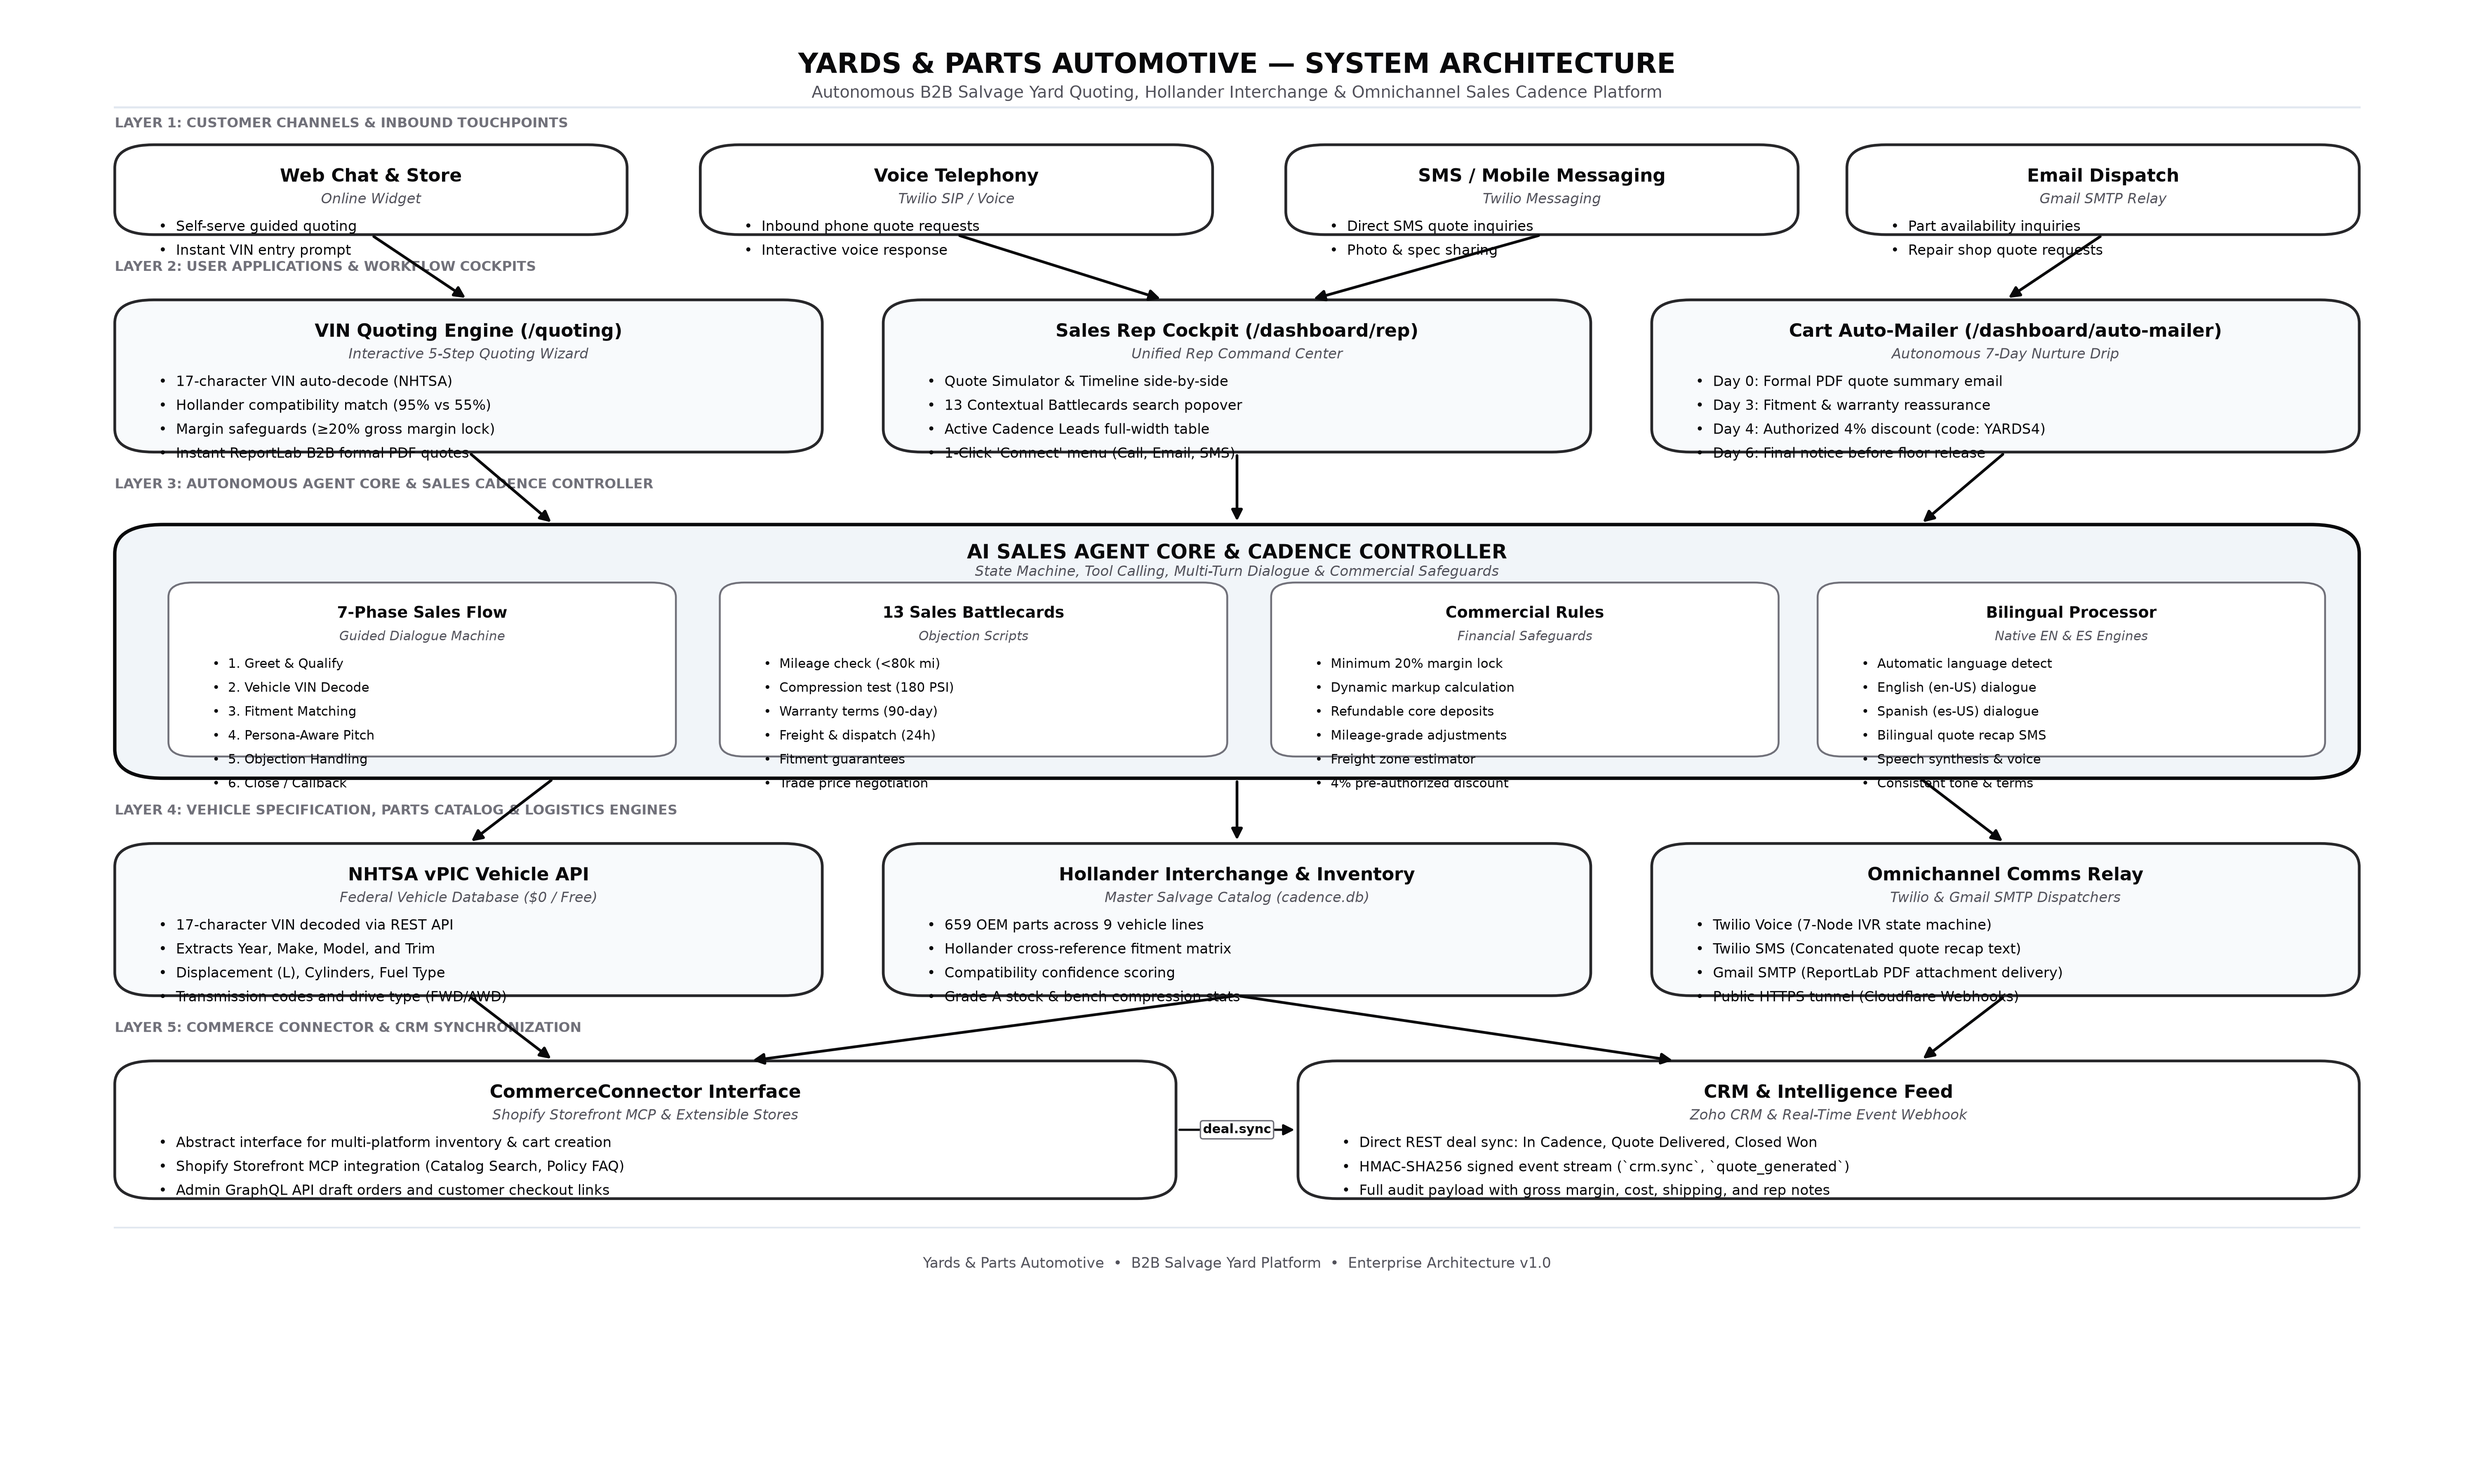
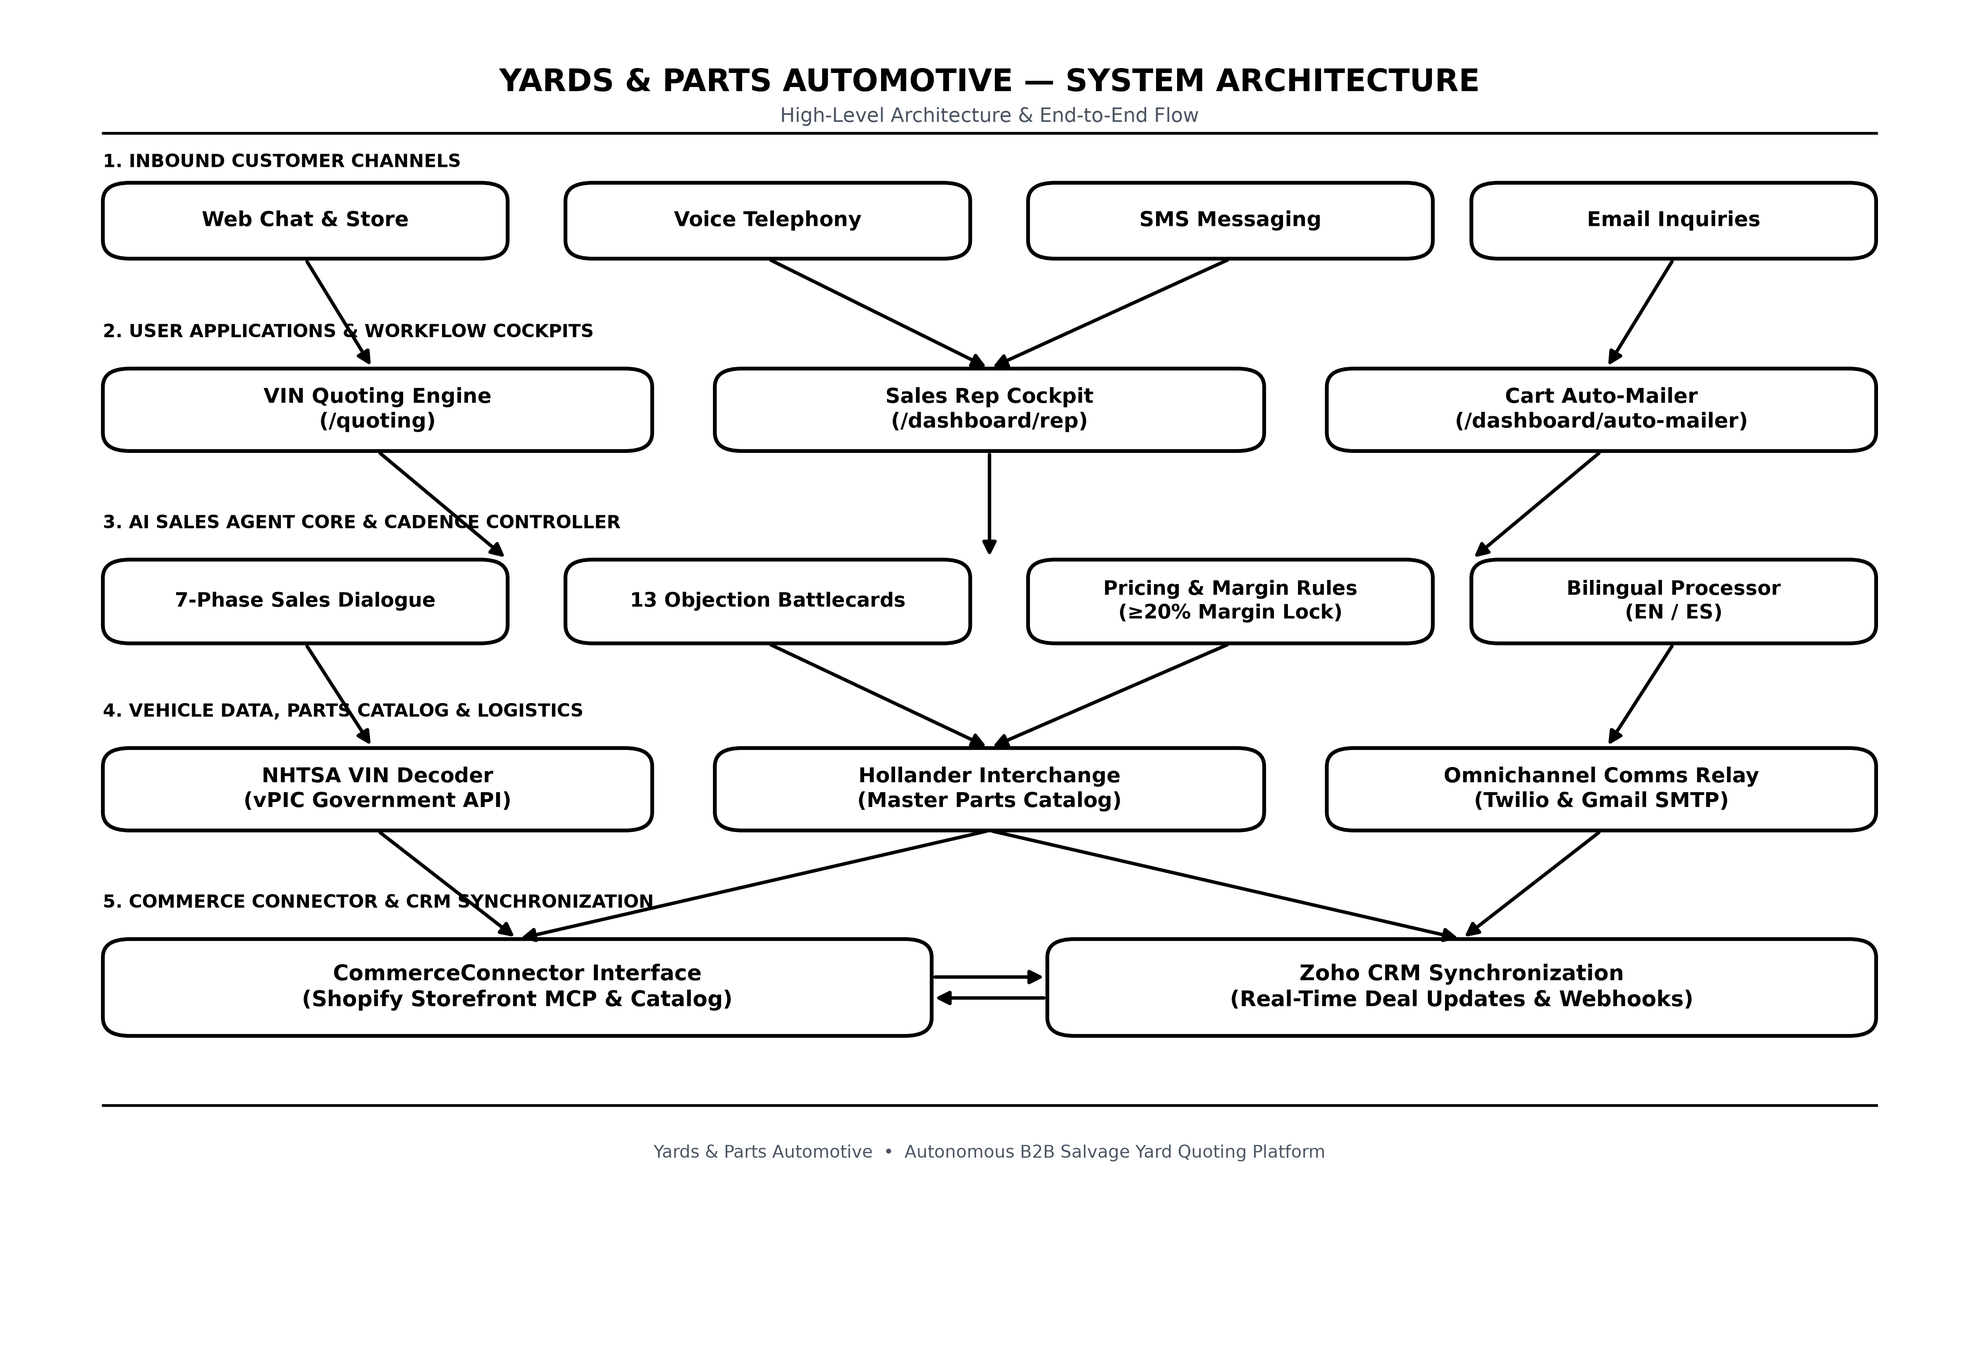
feat(comms): dynamically resolve Twilio credentials from env and update simple architecture diagram

diff --git a/generate_simple_diagram.py b/generate_simple_diagram.py
@@ -1,0 +1,175 @@
+import os
+import matplotlib
+matplotlib.use('Agg')
+import matplotlib.pyplot as plt
+import matplotlib.patches as patches
+
+def draw_simple_diagram():
+    # 16:10 wide canvas, 300 DPI for high-resolution clarity
+    fig, ax = plt.subplots(figsize=(16, 11), dpi=300)
+    fig.patch.set_facecolor('#FFFFFF')
+    ax.set_facecolor('#FFFFFF')
+    ax.set_xlim(0, 100)
+    ax.set_ylim(0, 100)
+    ax.axis('off')
+
+    # Minimalist Black & White palette
+    COLOR_BLACK = '#09090B'
+    COLOR_CARD = '#FFFFFF'
+    COLOR_CONTAINER = '#F8FAFC'
+    COLOR_MUTED = '#52525B'
+    COLOR_LINE = '#09090B'
+
+    def draw_box(x, y, w, h, text, bg=COLOR_CARD, border=COLOR_BLACK, lw=2.0, r=1.4, fontsize=12):
+        box = patches.FancyBboxPatch(
+            (x, y), w, h,
+            boxstyle=f"round,pad=0,rounding_size={r}",
+            facecolor=bg,
+            edgecolor=border,
+            linewidth=lw,
+            zorder=3
+        )
+        ax.add_patch(box)
+        # Headline only - clean, bold, centered
+        ax.text(x + w / 2, y + h / 2, text, ha='center', va='center',
+                fontsize=fontsize, fontweight='bold', color=COLOR_BLACK, zorder=4)
+        return (x + w / 2, y + h / 2)
+
+    def draw_arrow(x1, y1, x2, y2, lw=1.8, rad=0):
+        cstyle = f"arc3,rad={rad}" if rad != 0 else "arc3,rad=0"
+        ax.annotate(
+            "",
+            xy=(x2, y2), xycoords='data',
+            xytext=(x1, y1), textcoords='data',
+            arrowprops=dict(
+                arrowstyle="-|>",
+                color=COLOR_LINE,
+                lw=lw,
+                mutation_scale=14,
+                connectionstyle=cstyle
+            ),
+            zorder=5
+        )
+
+    # ── HEADER ─────────────────────────────────────────────────────────────
+    ax.text(50, 96.8, "YARDS & PARTS AUTOMOTIVE — SYSTEM ARCHITECTURE", ha='center', va='top',
+            fontsize=17, fontweight='bold', color=COLOR_BLACK)
+    ax.text(50, 94.0, "High-Level Architecture & End-to-End System Flow", ha='center', va='top',
+            fontsize=10.5, color=COLOR_MUTED)
+    ax.plot([4, 96], [92.0, 92.0], color=COLOR_BLACK, lw=1.4, zorder=1)
+
+    # ── LEFT COLUMN LAYER BADGES (x = 4 to 20) ──────────────────────────────
+    # Placing all labels strictly in the left column guarantees NO arrows ever intersect labels!
+    def draw_layer_badge(y_center, step_num, title, subtitle=""):
+        bw, bh = 15.5, 6.0
+        bx, by = 4.0, y_center - bh / 2
+        # Card outline for layer label
+        card = patches.FancyBboxPatch(
+            (bx, by), bw, bh,
+            boxstyle="round,pad=0,rounding_size=1.0",
+            facecolor=COLOR_CONTAINER,
+            edgecolor=COLOR_BLACK,
+            linewidth=1.2,
+            zorder=2
+        )
+        ax.add_patch(card)
+        ax.text(bx + bw / 2, by + bh - 1.4, f"LAYER {step_num}", ha='center', va='top',
+                fontsize=8.5, fontweight='bold', color=COLOR_MUTED, zorder=3)
+        ax.text(bx + bw / 2, by + bh - 2.8, title, ha='center', va='top',
+                fontsize=10.5, fontweight='bold', color=COLOR_BLACK, zorder=3)
+        if subtitle:
+            ax.text(bx + bw / 2, by + 1.2, subtitle, ha='center', va='bottom',
+                    fontsize=8.0, fontstyle='italic', color=COLOR_MUTED, zorder=3)
+
+    # ── RIGHT AREA: HEADLINE BOXES (x = 22 to 96) ───────────────────────────
+
+    # LAYER 1: CHANNELS (y center = 84.5)
+    draw_layer_badge(84.5, "1", "CHANNELS", "Inbound Leads")
+    l1_y, l1_h, l1_w = 81.5, 6.0, 17.5
+    draw_box(22.0, l1_y, l1_w, l1_h, "Web Chat & Store", fontsize=11.5)
+    draw_box(41.0, l1_y, l1_w, l1_h, "Voice Telephony", fontsize=11.5)
+    draw_box(60.0, l1_y, l1_w, l1_h, "SMS Messaging", fontsize=11.5)
+    draw_box(78.5, l1_y, l1_w, l1_h, "Email Inquiries", fontsize=11.5)
+
+    # Arrows L1 -> L2
+    draw_arrow(30.75, l1_y, 33.5, 73.0)   # Web Chat -> Quoting
+    draw_arrow(49.75, l1_y, 59.0, 73.0)   # Voice -> Rep Cockpit
+    draw_arrow(68.75, l1_y, 59.0, 73.0)   # SMS -> Rep Cockpit
+    draw_arrow(87.25, l1_y, 84.5, 73.0)   # Email -> Auto-Mailer
+
+    # LAYER 2: APPLICATIONS (y center = 69.5)
+    draw_layer_badge(69.5, "2", "APPLICATIONS", "Workflow Cockpits")
+    l2_y, l2_h, l2_w = 66.5, 6.2, 23.5
+    draw_box(22.0, l2_y, l2_w, l2_h, "VIN Quoting Engine\n(/quoting)", fontsize=12)
+    draw_box(47.25, l2_y, l2_w, l2_h, "Sales Rep Cockpit\n(/dashboard/rep)", fontsize=12)
+    draw_box(72.5, l2_y, l2_w, l2_h, "Cart Auto-Mailer\n(/dashboard/auto-mailer)", fontsize=12)
+
+    # Arrows L2 -> L3
+    draw_arrow(33.75, l2_y, 30.75, 58.0)  # Quoting -> Dialogue
+    draw_arrow(59.0,  l2_y, 49.75, 58.0)  # Cockpit -> Battlecards
+    draw_arrow(59.0,  l2_y, 68.75, 58.0)  # Cockpit -> Margin Rules
+    draw_arrow(84.25, l2_y, 87.25, 58.0)  # Auto-Mailer -> Bilingual
+
+    # LAYER 3: AI SALES CORE (y center = 54.5)
+    draw_layer_badge(54.5, "3", "AI AGENT CORE", "Decision & Dialogue")
+    l3_y, l3_h, l3_w = 51.5, 6.2, 17.5
+    draw_box(22.0, l3_y, l3_w, l3_h, "7-Phase Dialogue\nSales Machine", fontsize=11.5)
+    draw_box(41.0, l3_y, l3_w, l3_h, "13 Objection\nBattlecards", fontsize=11.5)
+    draw_box(60.0, l3_y, l3_w, l3_h, "Commercial Rules\n(≥20% Margin Lock)", fontsize=11.5)
+    draw_box(78.5, l3_y, l3_w, l3_h, "Bilingual Engine\n(English & Spanish)", fontsize=11.5)
+
+    # Arrows L3 -> L4
+    draw_arrow(30.75, l3_y, 33.75, 43.0)  # Dialogue -> NHTSA
+    draw_arrow(49.75, l3_y, 59.0, 43.0)   # Battlecards -> Hollander
+    draw_arrow(68.75, l3_y, 59.0, 43.0)   # Rules -> Hollander
+    draw_arrow(87.25, l3_y, 84.25, 43.0)  # Bilingual -> Comms Relay
+
+    # LAYER 4: DATA & LOGISTICS (y center = 39.5)
+    draw_layer_badge(39.5, "4", "DATA & CATALOG", "Fitment & Comms")
+    l4_y, l4_h, l4_w = 36.5, 6.2, 23.5
+    draw_box(22.0, l4_y, l4_w, l4_h, "NHTSA VIN Decoder\n(vPIC Government API)", fontsize=12)
+    draw_box(47.25, l4_y, l4_w, l4_h, "Hollander Interchange\n(Master Parts Catalog)", fontsize=12)
+    draw_box(72.5, l4_y, l4_w, l4_h, "Omnichannel Comms Relay\n(Twilio Voice, SMS & SMTP)", fontsize=12)
+
+    # Arrows L4 -> L5
+    draw_arrow(33.75, l4_y, 40.0, 28.5)   # VIN Decoder -> Shopify
+    draw_arrow(59.0,  l4_y, 40.0, 28.5)   # Hollander -> Shopify
+    draw_arrow(59.0,  l4_y, 78.0, 28.5)   # Hollander -> Zoho CRM
+    draw_arrow(84.25, l4_y, 78.0, 28.5)   # Comms -> Zoho CRM
+
+    # LAYER 5: COMMERCE & CRM (y center = 24.5)
+    draw_layer_badge(24.5, "5", "INTEGRATIONS", "Commerce & CRM")
+    l5_y, l5_h, l5_w = 21.0, 7.0, 35.8
+    draw_box(22.0, l5_y, l5_w, l5_h, "CommerceConnector Interface\n(Shopify Storefront MCP & Catalog)", fontsize=12.5)
+    draw_box(60.2, l5_y, l5_w, l5_h, "Zoho CRM Synchronization\n(Real-Time Deal Updates & Webhooks)", fontsize=12.5)
+
+    # Bidirectional sync between Commerce & CRM
+    draw_arrow(57.8, l5_y + l5_h / 2 + 0.8, 60.2, l5_y + l5_h / 2 + 0.8, lw=1.8)
+    draw_arrow(60.2, l5_y + l5_h / 2 - 0.8, 57.8, l5_y + l5_h / 2 - 0.8, lw=1.8)
+
+    # ── FOOTER ─────────────────────────────────────────────────────────────
+    ax.plot([4, 96], [16.5, 16.5], color=COLOR_BLACK, lw=1.4, zorder=1)
+    ax.text(50, 13.5, "Yards & Parts Automotive  •  Autonomous B2B Salvage Yard Quoting Platform  •  System Architecture",
+            ha='center', va='top', fontsize=9.5, color=COLOR_MUTED)
+
+    # Output paths
+    out_dir_artifact = r"C:\Users\Admin\.gemini\antigravity\brain\92229623-5397-48b9-989f-9a9cb99cc2ae"
+    out_dir_project = r"C:\Users\Admin\.gemini\antigravity\scratch\sales-cadence"
+    out_dir_static = os.path.join(out_dir_project, "app", "static")
+
+    p1 = os.path.join(out_dir_artifact, "architecture_diagram.png")
+    p2 = os.path.join(out_dir_project, "architecture_diagram.png")
+    p3 = os.path.join(out_dir_static, "architecture_diagram.png")
+    p_svg = os.path.join(out_dir_artifact, "architecture_diagram.svg")
+
+    plt.tight_layout(pad=1.5)
+    plt.savefig(p1, dpi=300, facecolor='#FFFFFF', edgecolor='none')
+    plt.savefig(p2, dpi=300, facecolor='#FFFFFF', edgecolor='none')
+    plt.savefig(p3, dpi=300, facecolor='#FFFFFF', edgecolor='none')
+    plt.savefig(p_svg, facecolor='#FFFFFF', edgecolor='none')
+    plt.close()
+
+    print("Simple architecture diagram successfully generated!")
+
+if __name__ == "__main__":
+    draw_simple_diagram()

diff --git a/app/comms/twilio_voice.py b/app/comms/twilio_voice.py
@@ -71,14 +71,15 @@ def make_call(to_number: str, lead_id: int, touch_number: int, call_script: str 
     session_id = session.id
     db.close()
 
-    client = Client(ACCOUNT_SID, AUTH_TOKEN)
+    load_dotenv()
+    client = Client(os.getenv("TWILIO_ACCOUNT_SID") or ACCOUNT_SID, os.getenv("TWILIO_AUTH_TOKEN") or AUTH_TOKEN)
     twiml_url = f"{effective_base_url}/twiml/call-start/{session_id}?lang={language}"
 
     try:
         call = client.calls.create(
             url=twiml_url,
             to=to_number,
-            from_=FROM_NUMBER,
+            from_=os.getenv("TWILIO_PHONE_NUMBER") or FROM_NUMBER,
             status_callback=f"{effective_base_url}/webhook/voice-status/{session_id}",
             status_callback_event=["initiated", "ringing", "answered", "completed"],
             status_callback_method="POST",

diff --git a/app/comms/twilio_sms.py b/app/comms/twilio_sms.py
@@ -29,12 +29,13 @@ def send_sms(to_number: str = None, body: str = "", to_phone: str = None) -> dic
     Returns:
         dict with 'sid', 'status', 'to'
     """
-    client = Client(ACCOUNT_SID, AUTH_TOKEN)
+    load_dotenv()
+    client = Client(os.getenv("TWILIO_ACCOUNT_SID") or ACCOUNT_SID, os.getenv("TWILIO_AUTH_TOKEN") or AUTH_TOKEN)
 
     try:
         message = client.messages.create(
             body=body,
-            from_=FROM_NUMBER,
+            from_=os.getenv("TWILIO_PHONE_NUMBER") or FROM_NUMBER,
             to=target_number,
         )
         return {
